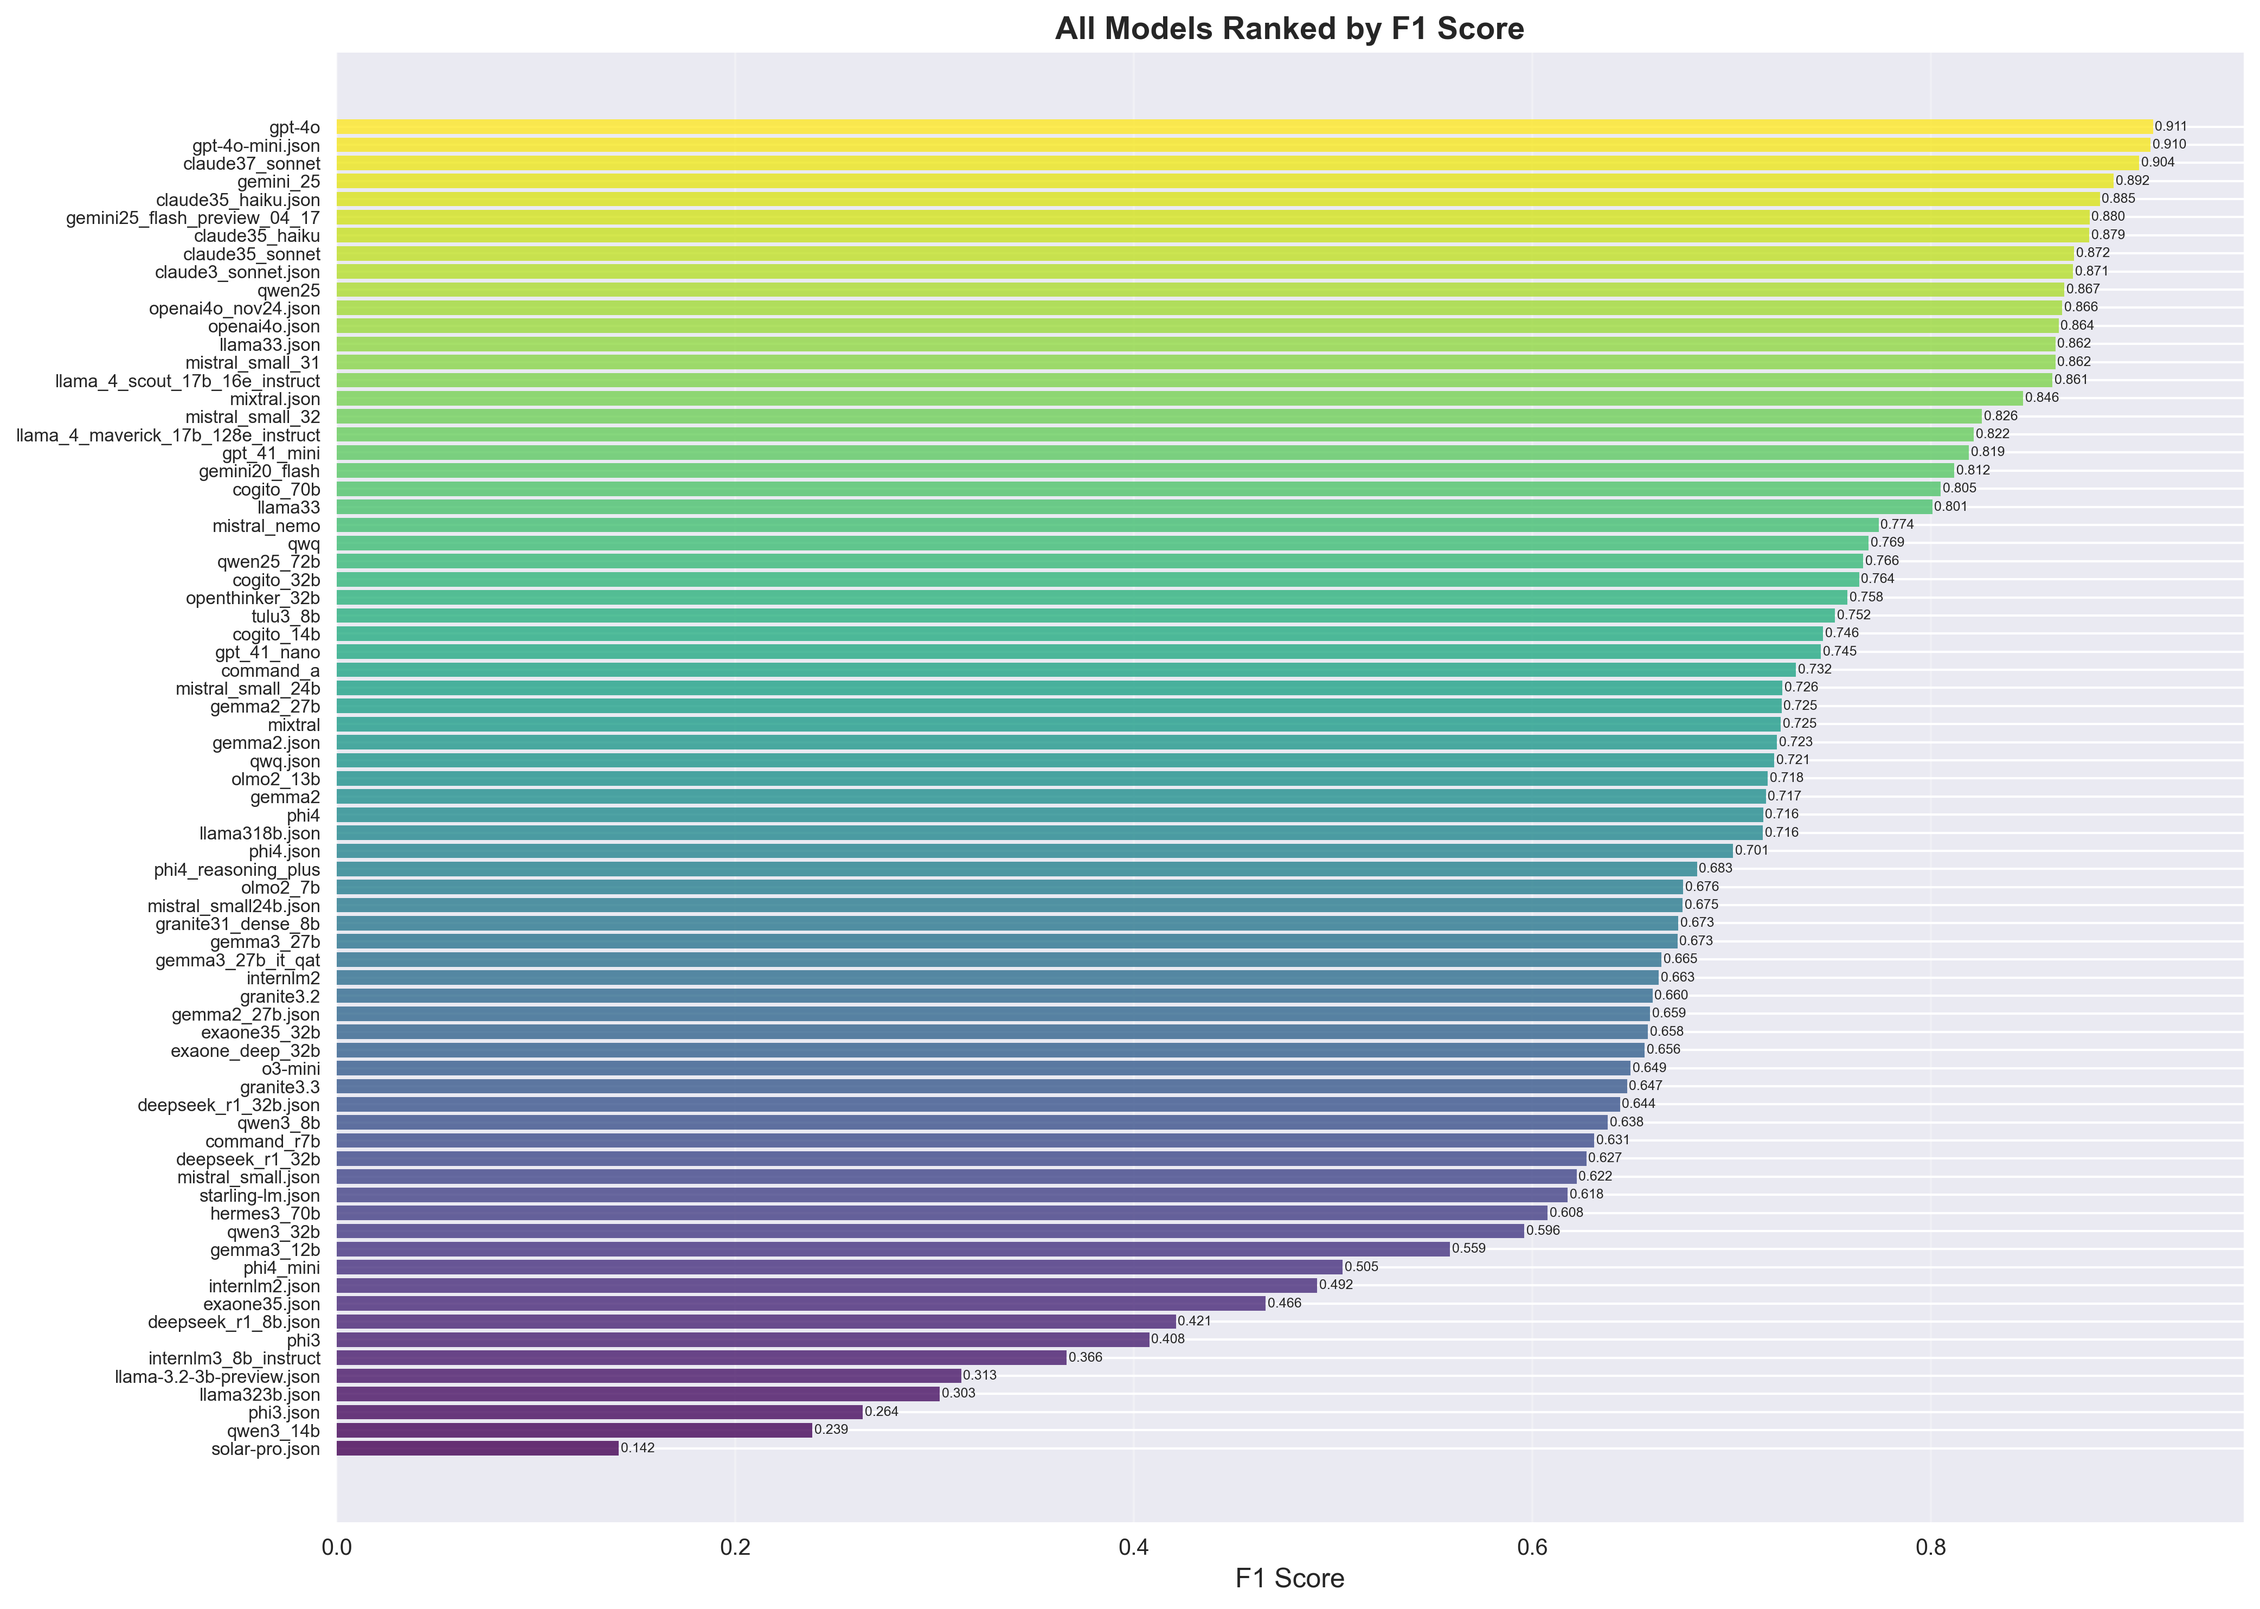
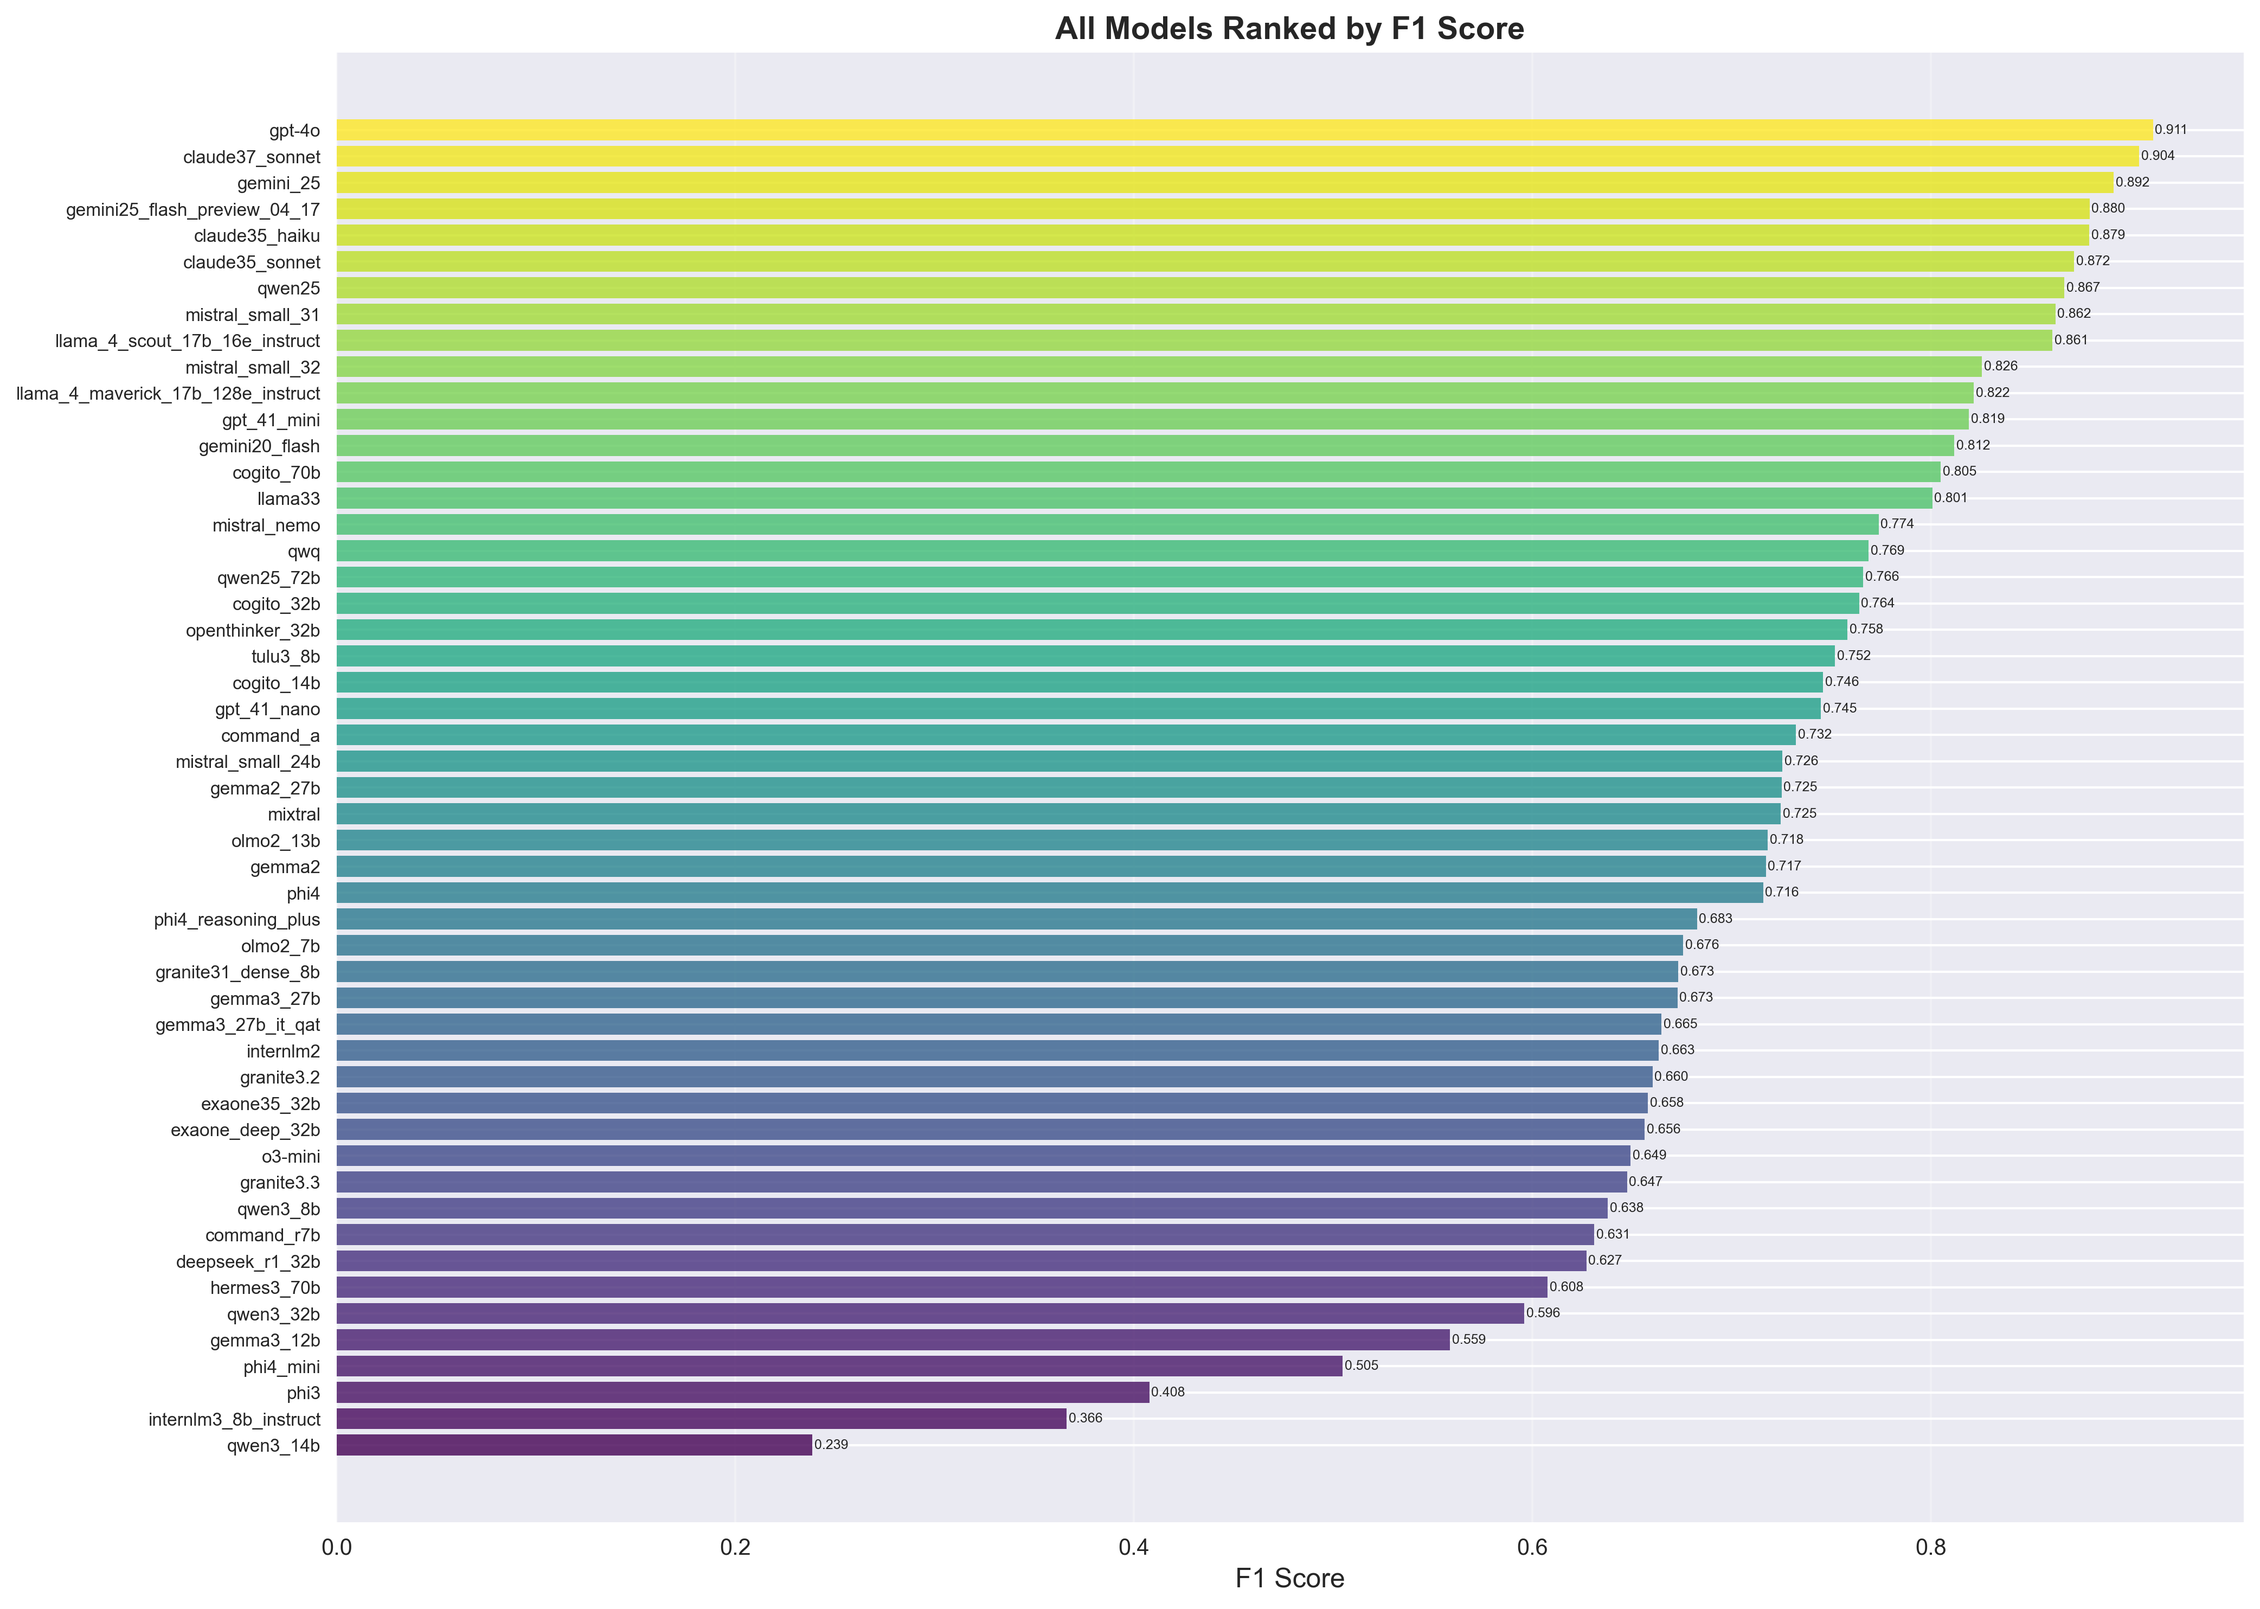
updated charts

Changed region(s): [[0.0312, 0.062, 0.9669, 0.9302]]

diff --git a/fundraising-emails/charts.py b/fundraising-emails/charts.py
@@ -6,6 +6,11 @@ import numpy as np
 # Load the data
 df = pd.read_csv('summary_all_json.csv')
 
+# Filter to only include files ending in _prompt2.json
+df = df[df['JSON Filename'].str.endswith('_prompt2.json')]
+
+print(f"Filtered to {len(df)} models ending in _prompt2.json")
+
 # Extract model names from JSON filenames (remove _prompt2.json and date info)
 df['Model'] = df['JSON Filename'].str.replace('_prompt2.json', '').str.replace(r'_\d{4}', '', regex=True).str.replace('_november', '').str.replace('_december', '')
 
